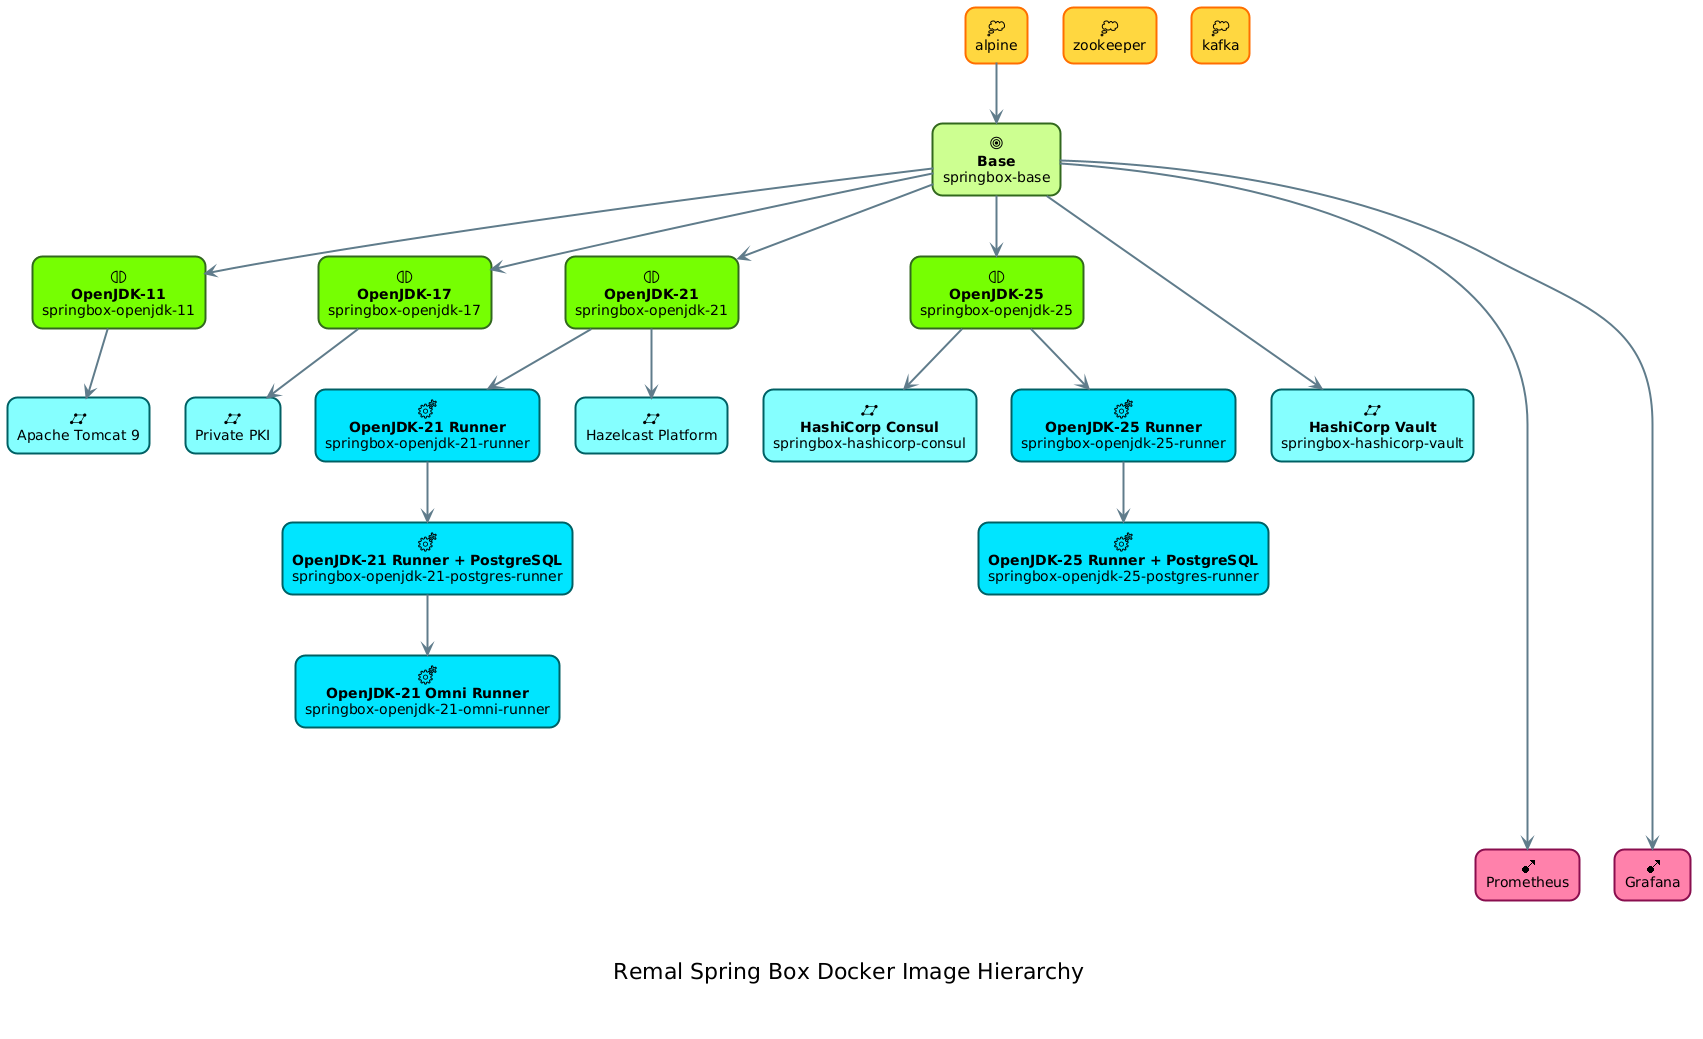
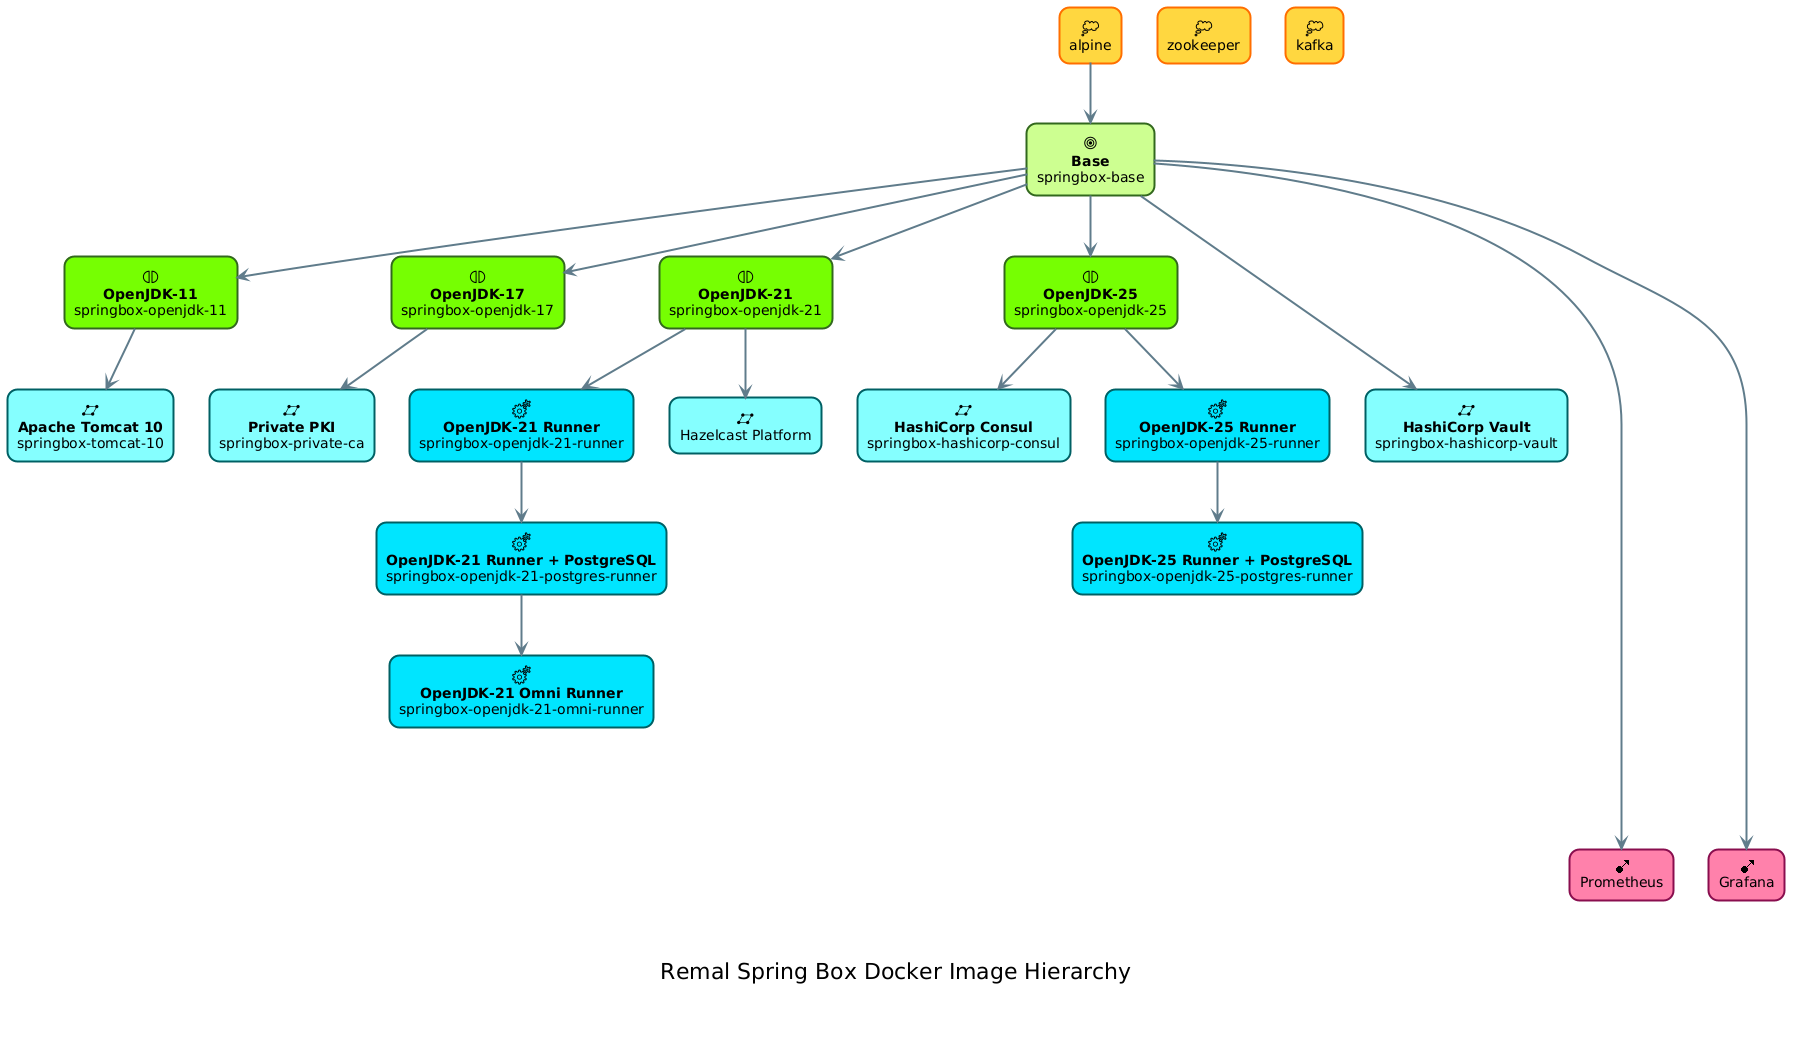
#60: Update Apache Tomcat 9 to 10

diff --git a/docker/infrastructure/tomcat-10/README.md b/docker/infrastructure/tomcat-10/README.md
@@ -1,0 +1,48 @@
+# Remal Spring Box: Apache Tomcat 10 image
+
+## 1) Overview
+Image name: `springbox-tomcat-10`
+
+A production-ready, security-hardened Apache Tomcat 10 container image optimized for Jakarta EE deployment.
+Features a high-performance NIO network connector engine, native OpenSSL cryptographic routing, and structured, pixel-aligned DevOps logging for clean container orchestration and troubleshooting.
+
+## 2) Features
+* **Apache Tomcat 10 server ready:** Fully configured and ready for the application inside this container.
+* **Apache Tomcat Admin account:** `admin`/`password`
+
+## 3) Ports used by the container
+* 22: SSH
+* 1331: Readiness signal
+* 8080: HTTP
+* 8443: HTTPS
+* 5005: JVM debug
+
+## 4) Usage
+Start the container:
+~~~
+DOMAIN_NAME=remal.com; docker run -d \
+   --name tomcat.${DOMAIN_NAME} \
+   -p 18080:8080 \
+   -p 10022:22 \
+   springbox-tomcat-10:0.8.0
+~~~
+
+Log in to the running container:
+~~~
+sshpass -p password ssh -oStrictHostKeyChecking=no root@localhost -p 10022
+~~~
+
+Web console access:
+~~~
+http://localhost:18080
+~~~
+
+## License and Copyright
+Contact:   arnold.somogyi@gmail.com
+
+Copyright: Copyright (c) 2020-2026 Remal Software
+
+This work is licensed under the Creative Commons Attribution-NonCommercial 4.0 International License.
+To view a copy of this license, visit: https://creativecommons.org
+
+You are free to share and adapt the material for personal or hobby purposes, provided you give appropriate credit and do not use the material for commercial gain.

diff --git a/RELEASE.md b/RELEASE.md
@@ -17,6 +17,7 @@ All notable changes to this project will be documented in this file.
 * [#57](https://github.com/zappee/spring-box/issues/57): Assign 'admin' user to the built-in Tomcat manager roles.
 * [#58](https://github.com/zappee/spring-box/issues/58): Remove ForgeRock AM 7.3.0 as it is no longer supported by ForgeRock.
 * [#59](https://github.com/zappee/spring-box/issues/59): Remove ForgeRock DS 7.3.0 as it is no longer supported by ForgeRock.
+* [#60](https://github.com/zappee/spring-box/issues/60): Update Apache Tomcat 9 to 10.
 
 #### Deprecated
 * [#51](https://github.com/zappee/spring-box/issues/51), **Update Java sample project**: The dependencies for the Java projects ([spring-box/projects](https://github.com/zappee/spring-box/tree/main/projects)) are currently outdated. As a solo maintainer, I cannot prioritize updating them at this time. Contributions and Pull Requests to update these examples are highly welcome!
